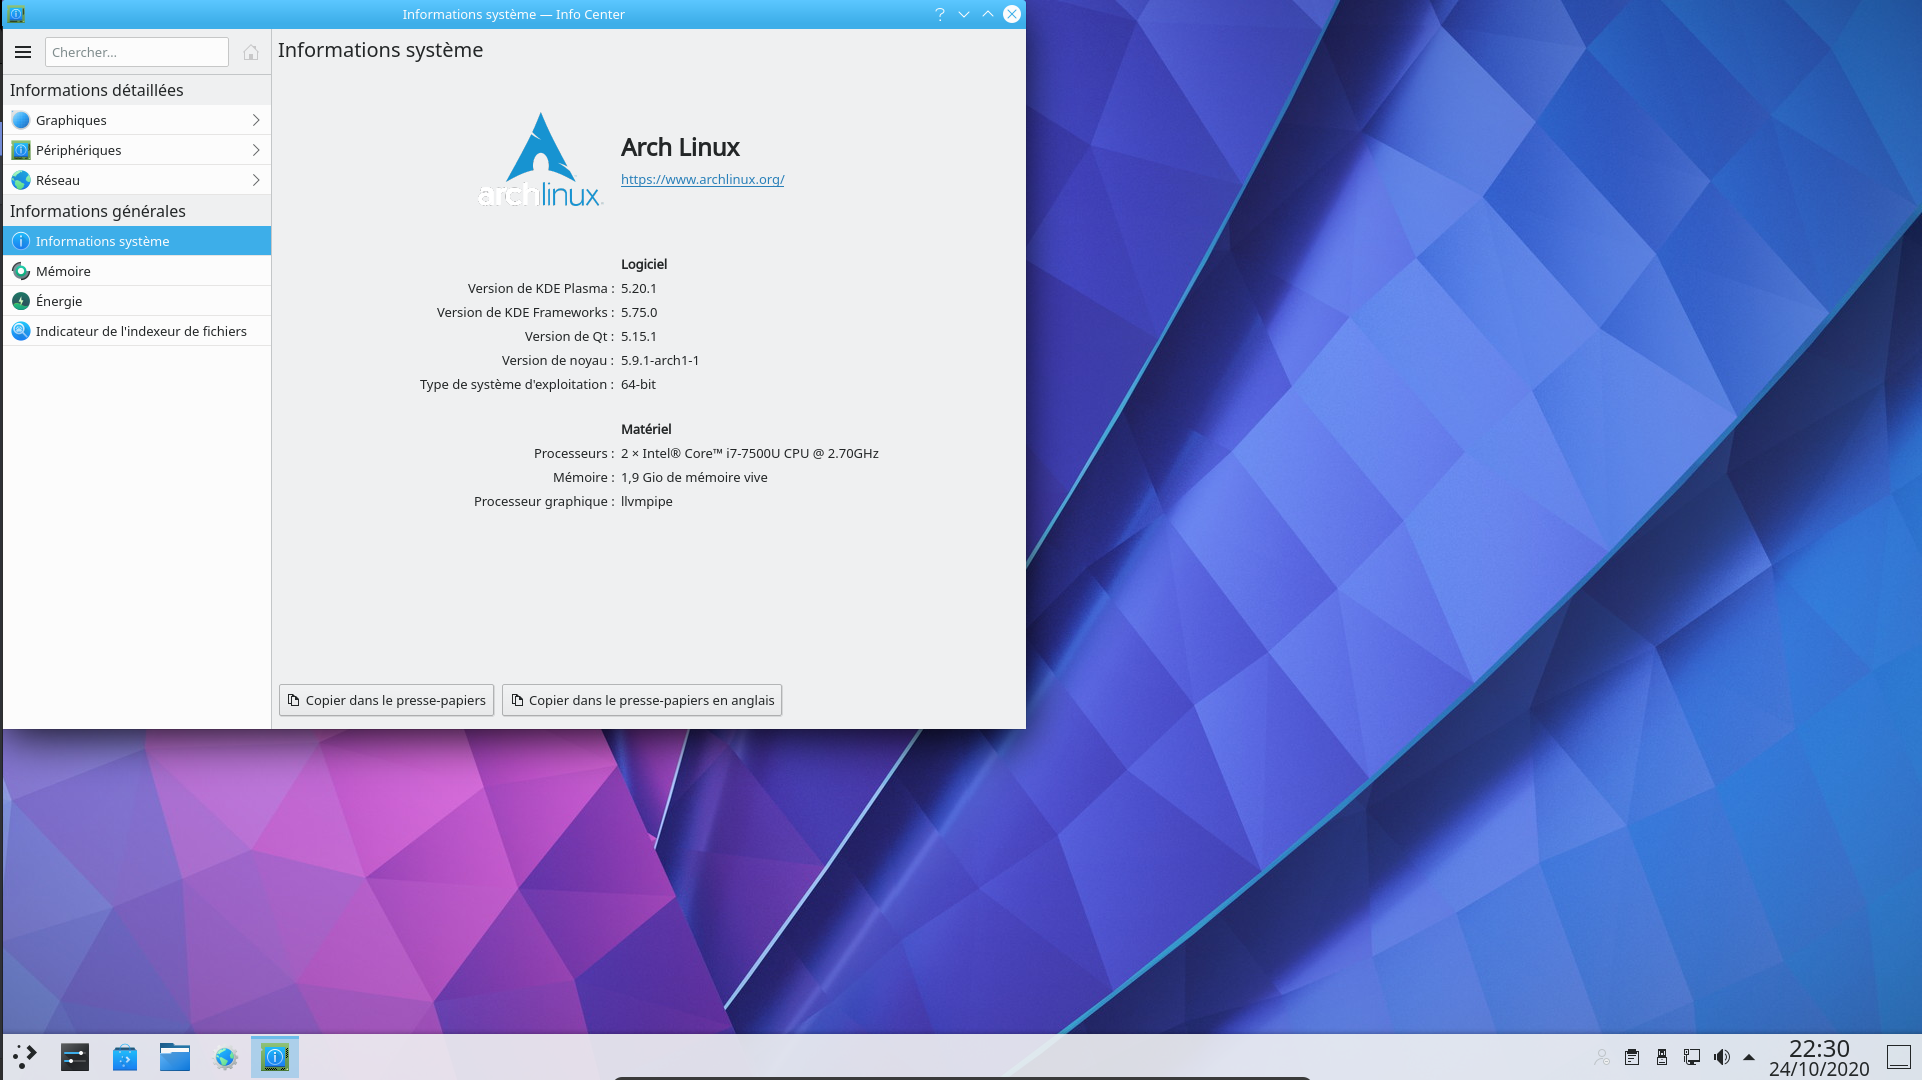
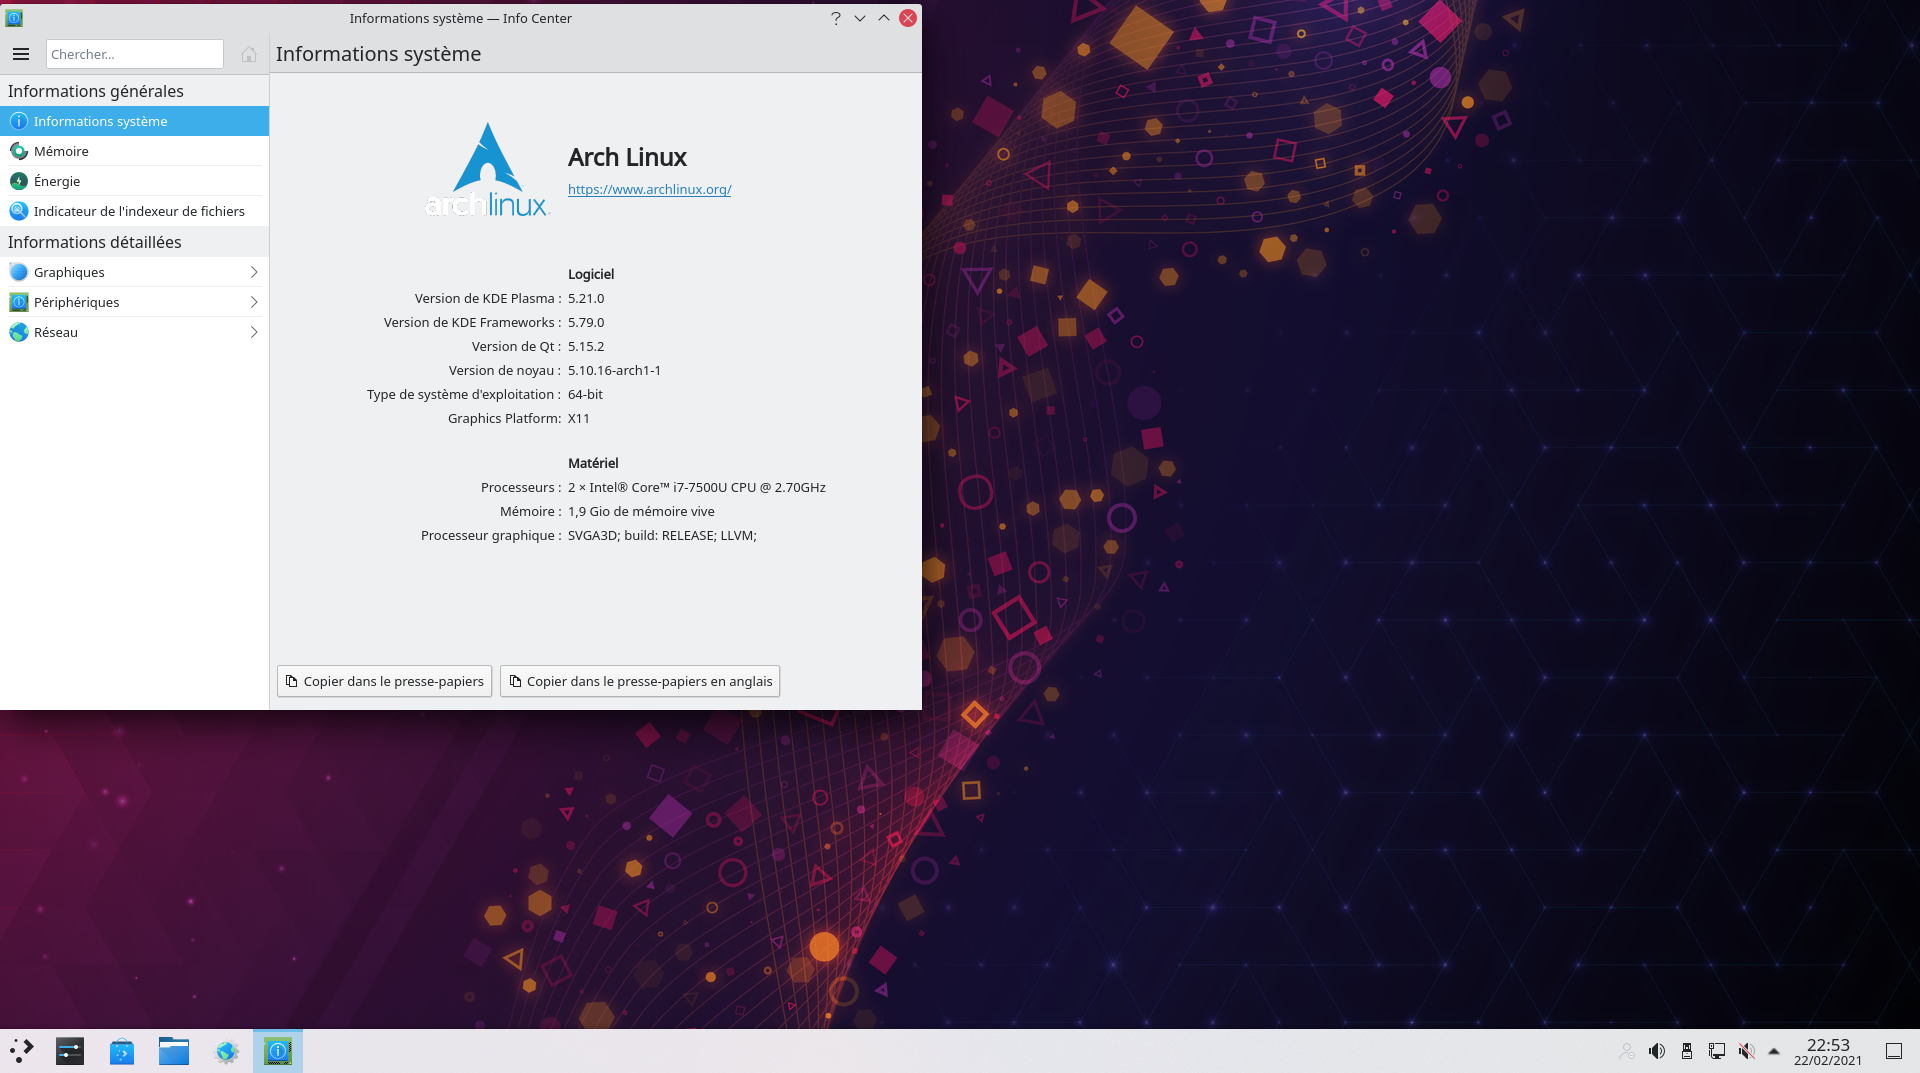
modifié :         install.md 	modifié :         pictures/004.png 	modifié :         pictures/005.png 	modifié :         pictures/006.png 	modifié :         pictures/007.png 	modifié :         pictures/008.png 	modifié :         pictures/014.png 	modifié :         pictures/015.png 	modifié :         

diff --git a/install.md b/install.md
@@ -27,16 +27,16 @@ Pour des raisons pratiques, je n’aborde nullement l’ajout de matériel comme
 
 **NOTE :** Ce tutoriel est **volontairement simplifié**. Il va vous permettre de voir comment installer une ArchLinux **en solo**. **Ensuite, s’il y a des spécificités liées à votre matériel, c’est au cas par cas qu’il faut regarder et compulser frénétiquement les wikis ci-dessus.** Si vous voulez installer une Archlinux **en parallèle** d’une installation de MS-Windows, c’est en dehors du cadre de ce document.
 
-Pour cette version du guide, je me suis basé sur la dernière ISO officielle, celle qui utilise les scripts d’installation. En avril 2020, c’est la 2020.04.01.
+Pour cette version du guide, je me suis basé sur la dernière ISO officielle, celle qui utilise les scripts d’installation. En février 2021, c’est la 2021.02.01.
 
 Merci à Ewolnux, Xarkam, Frédéric Sierra, Ludovic Riand, Vincent Manillier, Thomas Pawlowski, Igor Milhit, André Ray, Nicolas, Charles Monzat, SuperMario S, Angristan, Simon B, r33int, Mozzi, Kevin Dubrulle, Christophe Leloup, Nornort et Quentin Bihet pour leurs conseils et remarques. Et merci surtout à Frédéric Béziès pour avoir rédigé les premières versions de ce document, proposé sous licence [CC-BY-SA 4.0.](http://creativecommons.org/licenses/by-sa/4.0)
 
 I) Installons notre base
 ------------------------
 
-Installer une Archlinux, c’est comme construire une maison. On commence par les fondations, et on rajoute les murs et le reste par la suite. L’image ISO utilisée est la archlinux-2020.08.01-x86\_64.iso, mise en ligne début août 2020.
+Installer une Archlinux, c’est comme construire une maison. On commence par les fondations, et on rajoute les murs et le reste par la suite. L’image ISO utilisée est la archlinux-2021.02.01-x86\_64.iso, mise en ligne début février 2021.
 
-La machine virtuelle est une machine virtuelle à laquelle j’ai rajouté un disque virtuel de 50 Go. Des points spécifiques concernant l’utilisation dans VirtualBox et VMWare sont indiqués. Par défaut, le noyau proposé par Archlinux est un noyau « court terme ». Si vous voulez un noyau LTS, je vous expliquerai comment faire.
+La machine virtuelle est une machine virtuelle à laquelle j’ai rajouté un disque virtuel de 50 Go. Des points spécifiques concernant l’utilisation dans VirtualBox et VMWare sont indiqués.
 
 Dans cette partie, certaines sections seront dédoublées à cause des différences entre l’installation en mode Bios et en mode UEFI.
 
@@ -303,14 +303,14 @@ mkinitcpio -p linux (ou **linux-lts** si vous voulez le noyau lts.)
 
 **Note** : si vous avez une « hurlante » contenant « /run/lvm/lvmetad.socket: connect failed » ou quelque chose d’approchant, ce n’est pas un bug. C’est une alerte sans conséquence. Cf <https://wiki.archlinux.org/index.php/GRUB#Boot_freezes>
 
-![Illustration 7 : Génération du noyau linux 5.9.1 mi-octobre 2020](pictures/007.png)
+![Illustration 7 : Génération du noyau linux 5.10.16 mi-février 2020](pictures/007.png)
 
-*Illustration 7 : Génération du noyau linux 5.9.1 mi-octobre 2020*	
+*Illustration 7 : Génération du noyau linux 5.10.16 mi-février 2020*	
 
 
 Au tour du chargeur de démarrage. J’utilise Grub2 qui s’occupe de tout et récupère les paquets qui vont bien. Le paquet os-prober est indispensable pour un double démarrage.
 
-1\) Pour une installation en mode BIOS :
+**1\) Pour une installation en mode BIOS :**
 
 ```
 pacman -Syy grub os-prober
@@ -647,9 +647,9 @@ sudo systemctl enable gdm.service
 
 Il faut penser à vérifier que le clavier est correctement configuré. Ce qui se fait dans menu système unifié, paramètres.
 
-![Illustration 11: Gnome 3.36 en vue activités](pictures/011.png)
+![Illustration 11: Gnome 3.38 en vue activités](pictures/011.png)
 
-*Illustration 11: Gnome 3.36 en vue activités*
+*Illustration 11: Gnome 3.38 en vue activités*
 
 On va personnaliser le bureau Gnome en lui ajoutant la date complète et les boutons pour minimiser et maximiser les fenêtres avec Gnome Tweak Tool alias Ajustements.
 
@@ -659,9 +659,9 @@ On va personnaliser le bureau Gnome en lui ajoutant la date complète et les bou
 
 Pour finir une capture d’écran du mode « Gnome Shell ».
 
-![Illustration 13: Gnome Shell 3.36](pictures/013.png)
+![Illustration 13: Gnome Shell 3.38](pictures/013.png)
 
-*Illustration 13: Gnome Shell 3.36*
+*Illustration 13: Gnome Shell 3.38*
 
 #### b) Installons KDE Plasma 5.20
 
@@ -688,9 +688,9 @@ Si tout se passe bien, on peut utiliser pour l'activer:
 sudo systemctl enable sddm
 ```
 
-![Illustration 14: Plasma 5.20.1](pictures/014.png)
+![Illustration 14: Plasma 5.21.0](pictures/014.png)
 
-*Illustration 14: Plasma 5.20.1*
+*Illustration 14: Plasma 5.21.0*
 
 #### c) Installons Xfce
 
@@ -715,7 +715,7 @@ sudo pacman -S xfce4 xfce4-goodies gvfs quodlibet python-pyinotify lightdm-gtk-g
 
 Quodlibet ? Pour l’audio. Pour les périphériques amovibles, gvfs est obligatoire. Claws-mail ou Mozilla Thunderbird (avec le paquet thunderbird-i18n-fr) pour le courrier. Lightdm étant pris, car plus rapide à installer. Le paquet python2-pyinotify est nécessaire pour activer le greffon de mise à jour automatique de la musicothèque sous Quodlibet. Xfce intégrant Parole, VLC n'est plus nécessaire.
 
-Evince ? Pour les fichiers en pdf. On peut aussi remplacer xarchiver par file-roller. Quant à ffmpegthumbnailer, c’est utile si vous désirez avoir un aperçu des vidéos stockées sur votre ordinateur. Enfin, gnome-characters sert à disposer d'une table de caractères. Xfce intégrant désormais un économiseur d'écran, xscreensaver n'est plus nécessaire.
+Evince ? Pour les fichiers en pdf. On peut aussi remplacer xarchiver par file-roller. Quant à ffmpegthumbnailer, c’est utile si vous désirez avoir un aperçu des vidéos stockées sur votre ordinateur. Enfin, gucharmap sert à disposer d'une table de caractères. Xfce intégrant désormais un économiseur d'écran, xscreensaver n'est plus nécessaire.
 
 Si vous voulez personnaliser votre lightdm :
 
@@ -735,11 +735,9 @@ Et si tout se passe bien, on peut utiliser :
 sudo systemctl enable lightdm
 ```
 
-**Note 5 :** pour avoir des plus jolies icônes, on peut installer le paquet AUR elementary-xfce-icons ou encore les mint-x-icons. mais après, c’est à vous de voir !
+![Illustration 15: Xfce 4.16 en action.](pictures/015.png)
 
-![Illustration 15: Xfce 4.14 en action.](pictures/015.png)
-
-*Illustration 15: Xfce 4.14 en action.*
+*Illustration 15: Xfce 4.16 en action.*
 
 #### d) Installons Mate-Desktop
 
@@ -751,7 +749,8 @@ Si vous voulez la totalité des greffons gvfs (merci à SuperMarioS pour la lign
 sudo pacman -S gvfs-{afc,goa,google,gphoto2,mtp,nfs,smb}
 ```
 
-L’installation ressemble à celle de Xfce, donc pour les explications des paquets, cf l’addenda consacré à Xfce. VLC est rajouté pour la vidéo. Il ne faut pas oublier de rajouter un outil de gravure, comme Brasero si nécessaire. Pour le navigateur, Mozilla Firefox ou Chromium. C’est selon les goûts !
+L’installation ressemble à celle de Xfce, donc pour les explications des paquets, cf l’addenda consacré à Xfce. VLC est rajouté pour la vidéo.
+
 
 ```
 sudo pacman -S mate mate-extra lightdm-gtk-greeter gnome-icon-theme gucharmap vlc quodlibet python-pyinotify accountsservice claws-mail ffmpegthumbnailer pulseaudio-{alsa,bluetooth} blueman libcanberra-{pulse,gstreamer} network-manager-applet system-config-printer **→ (pour installer le support des imprimantes)**
@@ -775,9 +774,9 @@ Si tout se passe bien, on peut utiliser :
 sudo systemctl enable accounts-daemon
 sudo systemctl enable lightdm
 ```
-![Illustration 16: Mate Desktop 1.24.0](pictures/016.png)
+![Illustration 16: Mate Desktop 1.24.1](pictures/016.png)
 
-*Illustration 16: Mate Desktop 1.24.0*
+*Illustration 16: Mate Desktop 1.24.1*
 
 
 #### e) Installons Cinnamon
